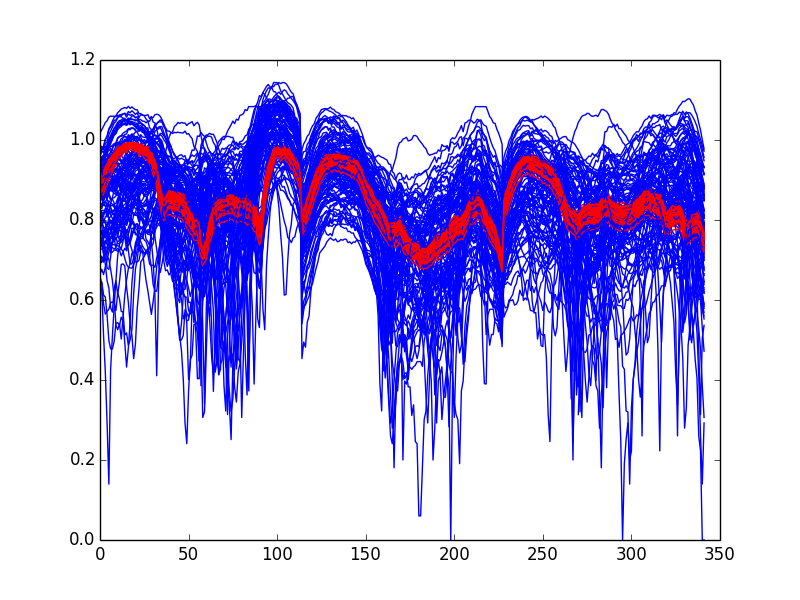
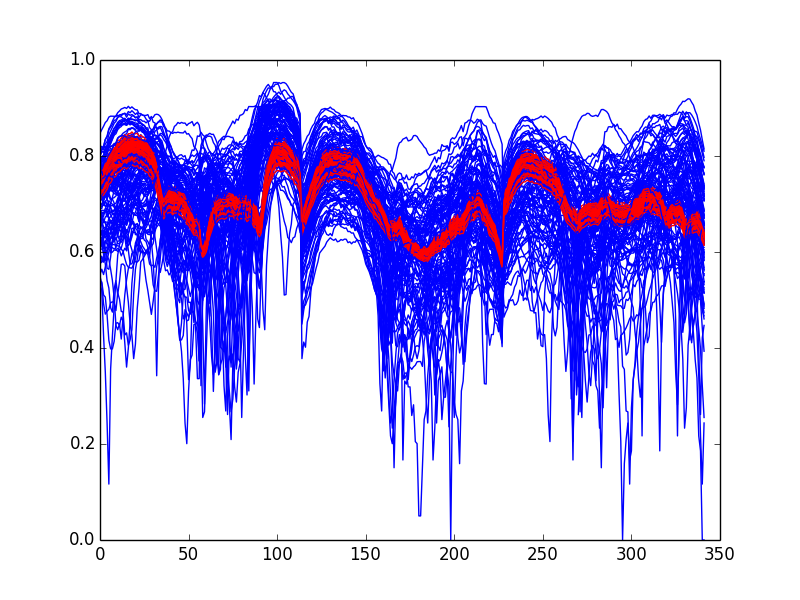
normalize as 60

diff --git a/CSI_data_processing/1-layer-autoencoder.py b/CSI_data_processing/1-layer-autoencoder.py
@@ -13,16 +13,13 @@ from csi_tool import read_csi
 # dataSize = 600 * (3 * 114)
 vMag, vPhase = read_csi()
 
-# Normalize the magnitude to (30, 50) and flatten to vector
-vMag = vMag.astype('float32') / 50.
+# Normalize the magnitude to (30, 60) and flatten to vector
+vMag = vMag.astype('float32') / 60.
 vMag = vMag.reshape((len(vMag), np.prod(vMag.shape[1:])))	# 600 * 342
 
 # 500 for training and 100 for testing
 magTrain = vMag[0:500, :]
 magTest = vMag[500:600, :]
-
-# plt.plot(vPhase[0], 'b')
-# plt.show()
 
 # autoencoder 提取特征
 encoding_dim = 32 # 32-dim feature

diff --git a/CSI_data_processing/deep-layers-autoencoder.py b/CSI_data_processing/deep-layers-autoencoder.py
@@ -13,16 +13,13 @@ from csi_tool import read_csi
 # dataSize = 600 * (3 * 114)
 vMag, vPhase = read_csi()
 
-# Normalize the magnitude to (30, 50) and flatten to vector
-vMag = vMag.astype('float32') / 50.
+# Normalize the magnitude to (30, 60) and flatten to vector
+vMag = vMag.astype('float32') / 60.
 vMag = vMag.reshape((len(vMag), np.prod(vMag.shape[1:])))	# 600 * 342
 
 # 500 for training and 100 for testing
 magTrain = vMag[0:500, :]
 magTest = vMag[500:600, :]
-
-# plt.plot(vPhase[0], 'b')
-# plt.show()
 
 # autoencoder 提取特征
 ncoding_dim = 16 # 32-dim feature

diff --git a/CSI_data_processing/csi_tool.py b/CSI_data_processing/csi_tool.py
@@ -23,3 +23,13 @@ def read_csi():
 				vPhase[i][j][k] = rawPhase[j][i][k]
 				vMag[i][j][k] = rawMag[j][i][k]
 	return vMag, vPhase
+
+# # dataSize = 600 * (3 * 114)
+# vMag, vPhase = read_csi()
+
+# # Normalize the magnitude to (60, 50) and flatten to vector
+# vMag = vMag.astype('float32') / 60.
+# vMag = vMag.reshape((len(vMag), np.prod(vMag.shape[1:])))	# 600 * 342
+
+# plt.plot(vMag)
+# plt.show()
